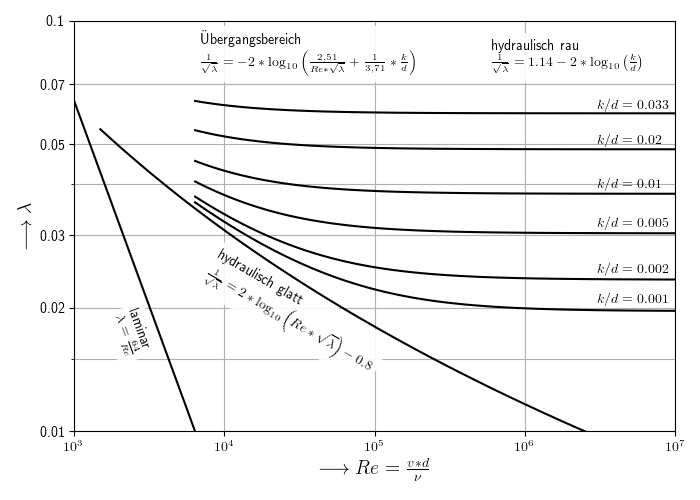
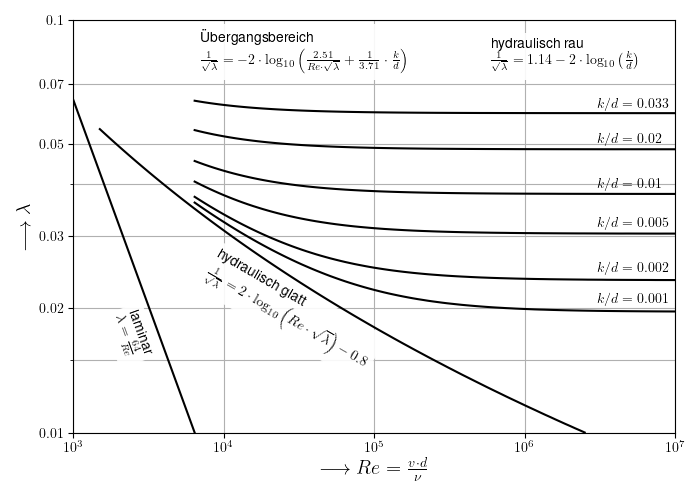
new font

diff --git a/moody_chart.py b/moody_chart.py
@@ -19,6 +19,7 @@ def turbulent_func(reynolds, relative_roughness):
 def moody_chart():
     plt.rc('text', usetex=True)
     plt.rc('font', family='sans-serif')
+    plt.rc('font', **{'sans-serif': ['Helvetica']})
 
     fig, ax = plt.subplots()
 
@@ -58,26 +59,26 @@ def moody_chart():
     ax.set_yticks([0.01, 0.02, 0.03, 0.05, 0.07, 0.1])
     ax.set_yticks([0.015, 0.04], minor=True)
 
-    ax.set_yticklabels([0.01, 0.02, 0.03, 0.05, 0.07, 0.10])
+    ax.set_yticklabels('${}$'.format(i) for i in [0.01, 0.02, 0.03, 0.05, 0.07, 0.10])
 
     ax.set_yticklabels([], minor=True)
 
     ax.set_ylabel(r'$\longrightarrow \lambda$', fontsize='x-large')
-    ax.set_xlabel(r'$\longrightarrow Re=\frac{v*d}{\nu}$', fontsize='x-large')
+    ax.set_xlabel(r'$\longrightarrow Re=\frac{v*d}{\nu}$'.replace('*', r' \cdot '), fontsize='x-large')
 
     ax.text(1.7e3, 0.02,
             'laminar \n' + r'$\lambda=\frac{64}{Re}$',
             bbox=dict(facecolor='white', alpha=0.9, linewidth=0), rotation=-70, verticalalignment='top')
 
-    ax.text(6e5, 0.075, 'hydraulisch rau \n' + r'$\frac{1}{\sqrt{\lambda}}=1.14-2*\log_{10}\left(\frac{k}{d}\right)$',
+    ax.text(6e5, 0.075, 'hydraulisch rau \n' + r'$\frac{1}{\sqrt{\lambda}}=1.14-2*\log_{10}\left(\frac{k}{d}\right)$'.replace('*', r' \cdot '),
             bbox=dict(facecolor='white', alpha=0.9, linewidth=0))
 
     ax.text(7e3, 0.028,
-            'hydraulisch glatt \n' + r'$\frac{1}{\sqrt{\lambda}}=2*\log_{10}\left(Re*\sqrt{\lambda}\right)-0.8$',
+            'hydraulisch glatt \n' + r'$\frac{1}{\sqrt{\lambda}}=2*\log_{10}\left(Re*\sqrt{\lambda}\right)-0.8$'.replace('*', r' \cdot '),
             bbox=dict(facecolor='white', alpha=0.9, linewidth=0), rotation=-30, verticalalignment='top')
 
     ax.text(7e3, 0.075,
-            'Übergangsbereich\n' + r'$\frac{1}{\sqrt{\lambda}}=-2*\log_{10}\left(\frac{2,51}{Re*\sqrt{\lambda}}+\frac{1}{3,71}*\frac{k}{d}\right)$',
+            'Übergangsbereich\n' + r'$\frac{1}{\sqrt{\lambda}}=-2*\log_{10}\left(\frac{2.51}{Re*\sqrt{\lambda}}+\frac{1}{3.71}*\frac{k}{d}\right)$'.replace('*', r' \cdot '),
             bbox=dict(facecolor='white', alpha=0.9, linewidth=0))
 
     fig.set_size_inches(7, 5)
